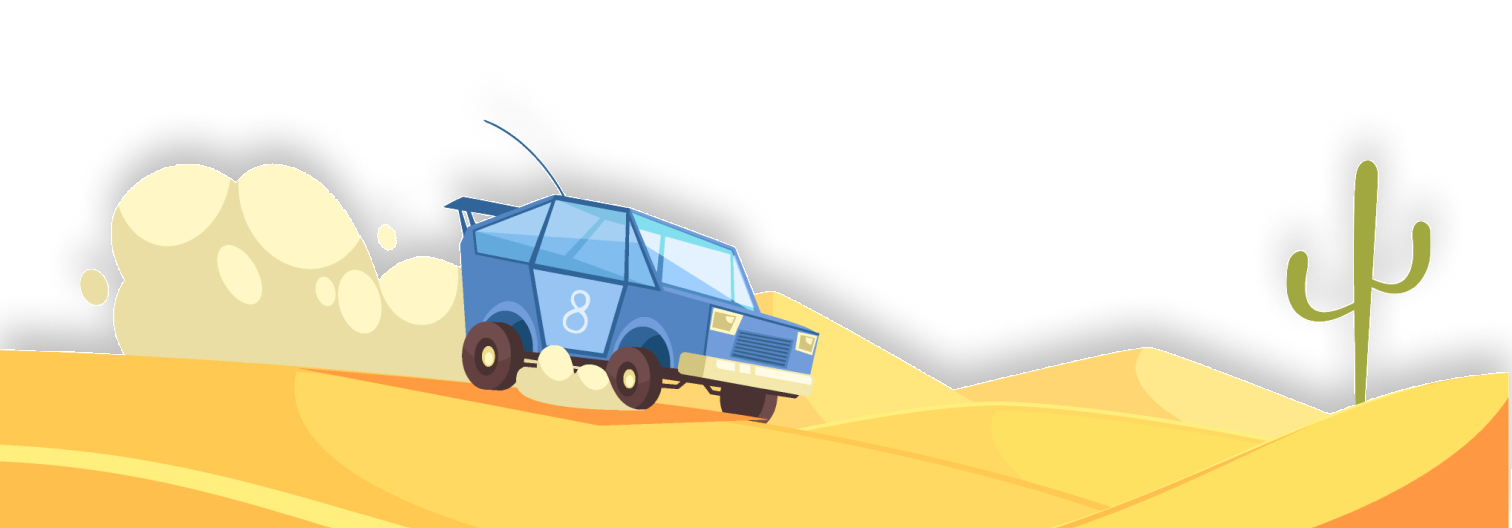
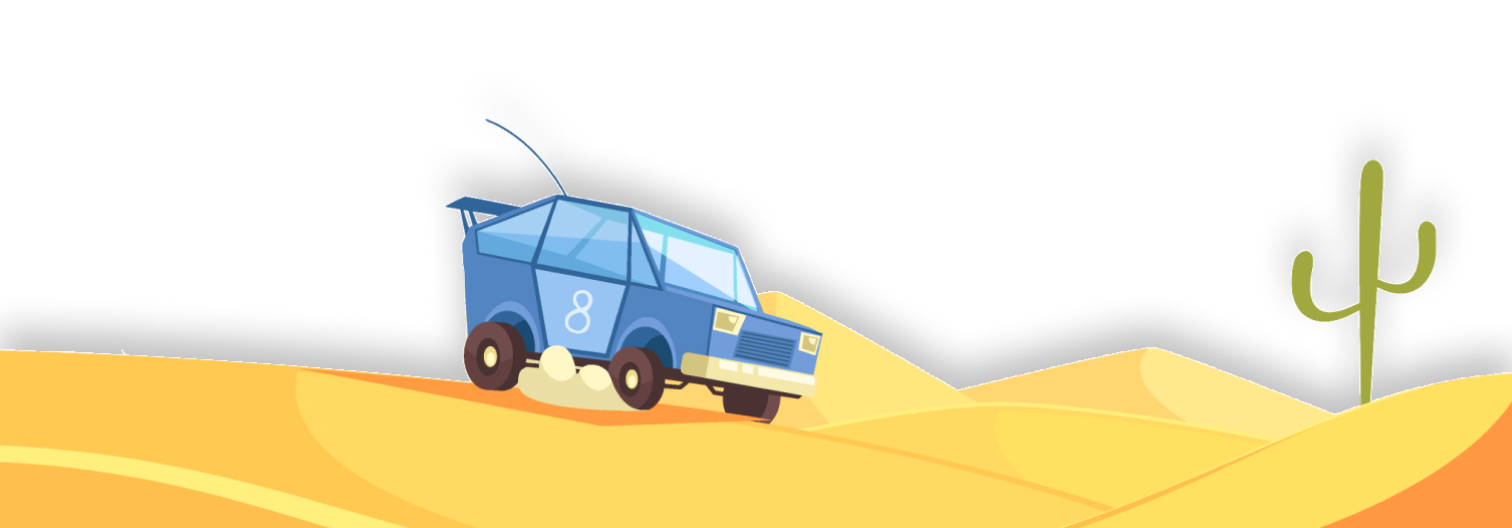
enhances img responsiveness

diff --git a/frontend/index.js b/frontend/index.js
@@ -8,13 +8,15 @@ const sun = document.getElementById("sun");
 const aud_btn = document.getElementById("aud");
 const footer = document.querySelector(".footer");
 
-// for(let i=0; i<7; i++){
-//     // sec[i].style.background = `url('./static/scenebg/bg${i+1}sh.png')`;
-//     sec[i].style.backgroundRepeat = "no-repeat";
-//     sec[i].style.backgroundSize = "100vw ";
-//     sec[i].style.backgroundPosition = "bottom";
-  
-// }
+for(let i=0; i<7; i++){
+  sec[i].style.background = `url('./static/scenebg/bg${i+1}sh.png')`;
+  sec[i].style.backgroundRepeat = "no-repeat";
+  sec[i].style.backgroundPosition = "bottom";
+  sec[i].style.backgroundSize = "100vw";
+}
+
+
+
 
 
 container.addEventListener("wheel", (e)=>{
@@ -25,7 +27,6 @@ container.addEventListener("wheel", (e)=>{
   body.style.backgroundColor = clrs[Math.floor(container.scrollLeft / window.innerWidth)];
   sun.style.top = `${5 + window.outerHeight/(window.outerWidth*35)*container.scrollLeft}vh`;
   moon.style.top = `${60 + window.outerHeight - 1*(window.outerHeight/(window.outerWidth*2.5)*((container.scrollLeft)-3.5*window.outerWidth))}px`;
-
   if(Math.floor(container.scrollLeft / window.innerWidth) >= 5){
     footer.style.animation = "fadeUp 4s ease-in-out";
   }

diff --git a/frontend/home.css b/frontend/home.css
@@ -17,7 +17,7 @@ body{
   -webkit-transition: background-color 0.5s ease-in-out;
 }
 #container{
-  overflow: scroll;
+  overflow: hidden;
 }
 section{
   /* margin-top: 10vh; */
@@ -27,12 +27,14 @@ section{
   max-width: 100vw;
   overflow: visible;
 }
+
+
 .back-scene{
   width: 700vw;
   position: relative;
-  top: -23vw; 
+  bottom: 0;
 }
-
+/* 
 @media screen and (max-height: 790px) {
   .back-scene{
     top: -26vw;
@@ -157,7 +159,7 @@ section{
   .back-scene{
     top: 130vw;
   }
-}
+} */
 
 
 

diff --git a/frontend/index.html b/frontend/index.html
@@ -35,7 +35,9 @@
         <button style="font-weight: 700;"> Watch Trailer </button>
       </div>
 
-      <img src="./static/background.png" class="back-scene">
+
+      
+
     </section>
 
     <section>
@@ -92,7 +94,7 @@
     </section>
 
     <section>
-      <div class="footer">
+      <div class="footer" >
         <h1 style="margin-bottom: 20px; font-size: 45px;"> CONTACT US</h1>
         <p>
           Officer In-Charge<br>
